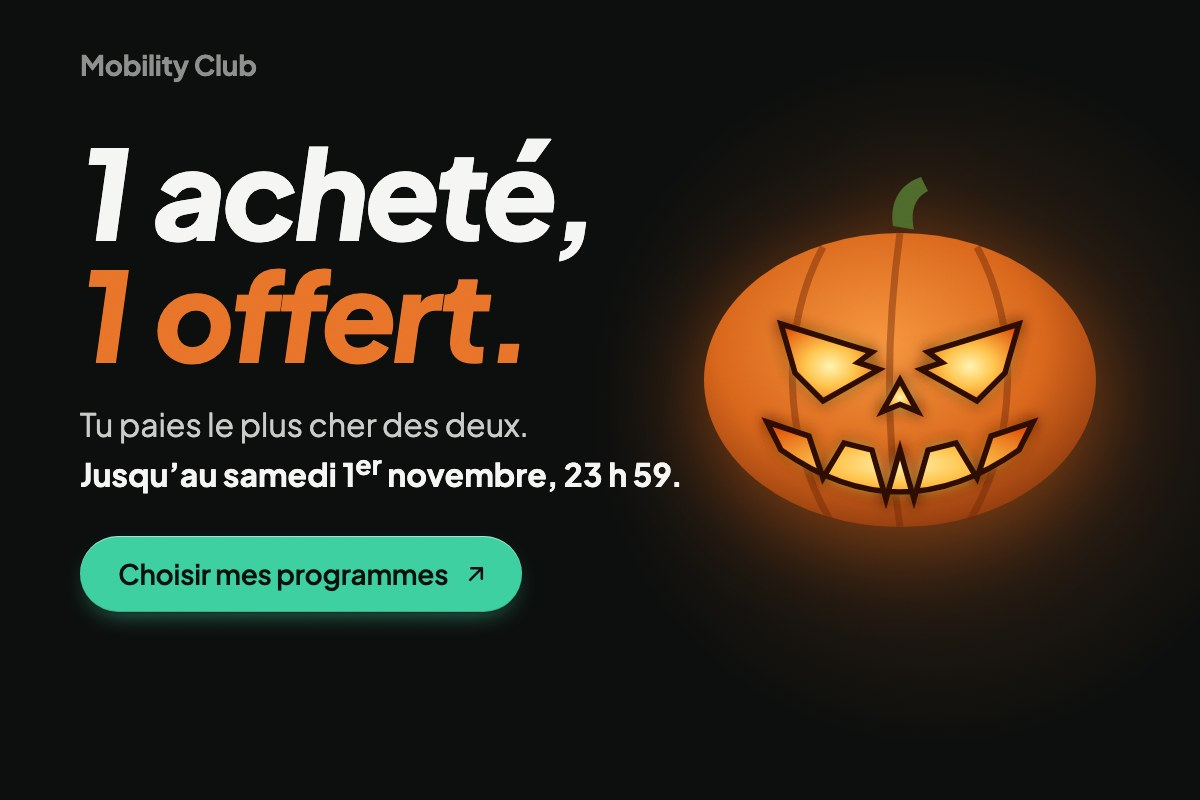
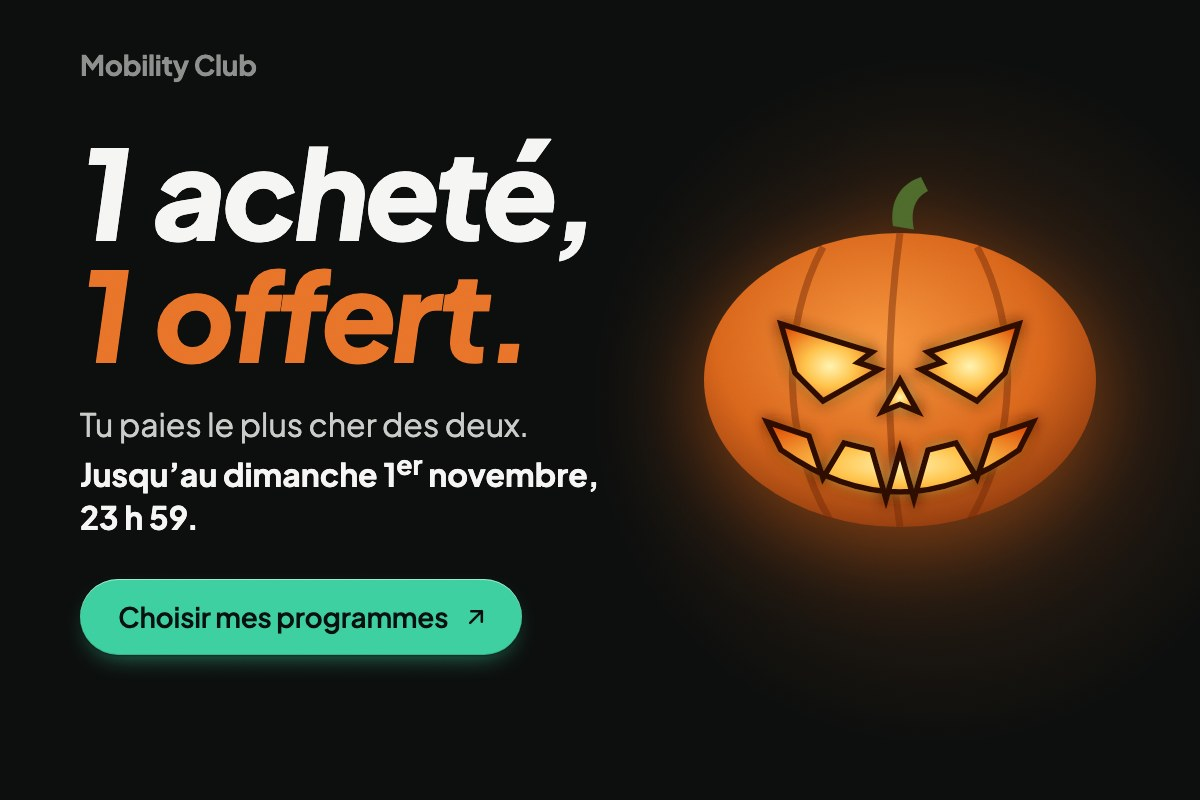
fix(halloween): fin de l'offre = dimanche 1er novembre 23 h 59 (page, démo, choisir, story 4, og, mail 1) — alignée sur le compte à rebours

Changed region(s): [[0.0617, 0.625, 0.4317, 0.8438], [0.185, 0.5625, 0.555, 0.625]]

diff --git a/halloween.html b/halloween.html
@@ -4,21 +4,21 @@
 <meta charset="UTF-8" />
 <meta name="viewport" content="width=device-width, initial-scale=1.0, viewport-fit=cover" />
 <title>Halloween — 1 programme acheté, 1 offert | Mobility Club</title>
-<meta name="description" content="Un programme ou un sort. Jusqu'au samedi 1er novembre minuit : pour un programme Articulation ou Warm Up acheté dans l'app, le deuxième est offert. Tu choisis les deux." />
+<meta name="description" content="Un programme ou un sort. Jusqu'au dimanche 1er novembre minuit : pour un programme Articulation ou Warm Up acheté dans l'app, le deuxième est offert. Tu choisis les deux." />
 <meta name="theme-color" content="#0D0F0E" />
 <meta name="robots" content="index,follow" />
 <link rel="canonical" href="https://mobilityclub.co/halloween" />
 <meta property="og:type" content="website" />
 <meta property="og:url" content="https://mobilityclub.co/halloween" />
 <meta property="og:title" content="Un programme ou un sort — 1 acheté, 1 offert" />
-<meta property="og:description" content="Halloween au Mobility Club : un programme Articulation ou Warm Up acheté, le deuxième offert. Jusqu'au samedi 1er novembre à minuit." />
+<meta property="og:description" content="Halloween au Mobility Club : un programme Articulation ou Warm Up acheté, le deuxième offert. Jusqu'au dimanche 1er novembre à minuit." />
 <meta property="og:image" content="https://mobilityclub.co/assets/halloween/og.jpg" />
 <meta property="og:image:width" content="1200" />
 <meta property="og:image:height" content="630" />
 <meta property="og:locale" content="fr_FR" />
 <meta name="twitter:card" content="summary_large_image" />
 <meta name="twitter:title" content="Un programme ou un sort — 1 acheté, 1 offert" />
-<meta name="twitter:description" content="Un programme Articulation ou Warm Up acheté, le deuxième offert. Jusqu'au samedi 1er novembre à minuit." />
+<meta name="twitter:description" content="Un programme Articulation ou Warm Up acheté, le deuxième offert. Jusqu'au dimanche 1er novembre à minuit." />
 <meta name="twitter:image" content="https://mobilityclub.co/assets/halloween/og.jpg" />
 <link rel="preload" as="image" href="/assets/halloween/colonne.jpg" fetchpriority="high" />
 <link rel="stylesheet" href="/assets/halloween/commun.css" />
@@ -202,10 +202,10 @@
     <img class="sharp" src="/assets/halloween/colonne.jpg" alt="" width="540" height="960" fetchpriority="high" />
   </div>
   <div class="hero-in">
-    <span class="capsule live"><span class="tag">Halloween</span>jusqu'à samedi minuit</span>
+    <span class="capsule live"><span class="tag">Halloween</span>jusqu'à dimanche minuit</span>
     <span class="capsule ended"><span class="tag">Halloween</span>offre terminée</span>
     <h1>Un programme <em>ou un sort.</em></h1>
-    <p class="lede">Deux programmes de mobilité construits sur ton bilan, pas une routine de plus. <span class="live">Le deuxième est offert jusqu'à samedi minuit.</span></p>
+    <p class="lede">Deux programmes de mobilité construits sur ton bilan, pas une routine de plus. <span class="live">Le deuxième est offert jusqu'à dimanche minuit.</span></p>
 
     <div class="fan" aria-label="Deux programmes dans la poche : un acheté, un offert">
       <div class="pocket-back"></div>
@@ -222,13 +222,13 @@
       <div class="tile"><span id="cd-m">00</span><small>min</small></div>
       <div class="tile"><span id="cd-s">00</span><small>s</small></div>
     </div>
-    <p class="until live">Tu paies le plus cher des deux. Fin samedi 1<sup>er</sup> novembre, 23 h 59 (Paris).</p>
+    <p class="until live">Tu paies le plus cher des deux. Fin dimanche 1<sup>er</sup> novembre, 23 h 59 (Paris).</p>
     <a class="cta live" href="/halloween/choisir" data-cta="hero">Choisir mes programmes</a>
     <p class="sub live">Paiement unique, pas d'abonnement. Ensuite, tu te connectes à l'app avec l'email de ton paiement.</p>
 
     <div class="ended glass ended-box" id="ended" role="status">
       <h2>L'offre est terminée.</h2>
-      <p>Le 1 acheté, 1 offert Halloween a pris fin samedi 1<sup>er</sup> novembre à 23 h 59. Les programmes restent disponibles à l'unité dans l'app, au tarif normal : Articulation 90 €, Warm Up 49 €.</p>
+      <p>Le 1 acheté, 1 offert Halloween a pris fin dimanche 1<sup>er</sup> novembre à 23 h 59. Les programmes restent disponibles à l'unité dans l'app, au tarif normal : Articulation 90 €, Warm Up 49 €.</p>
       <a class="cta" href="https://app.mobilityclub.co" data-cta="ended">Voir les programmes</a>
     </div>
   </div>
@@ -325,7 +325,7 @@
     <div class="faq">
       <details class="glass" open>
         <summary>Quand se termine l'offre ?</summary>
-        <p>Samedi 1<sup>er</sup> novembre 2026 à 23 h 59, heure de Paris. Le compte à rebours de cette page est calé sur cette heure. Après, le 1 acheté, 1 offert n'existe plus.</p>
+        <p>Dimanche 1<sup>er</sup> novembre 2026 à 23 h 59, heure de Paris. Le compte à rebours de cette page est calé sur cette heure. Après, le 1 acheté, 1 offert n'existe plus.</p>
       </details>
       <details class="glass">
         <summary>Comment marche le 1 acheté, 1 offert ?</summary>

diff --git a/scripts/visuels-halloween/email-1.html b/scripts/visuels-halloween/email-1.html
@@ -20,4 +20,4 @@ h1{font-size:124px;letter-spacing:-.035em;word-spacing:.07em;line-height:.98;}
 <body>
 <div class="st" style="width:1200px;height:800px"><div class="glow"></div><div class="marque">Mobility Club</div>
 <svg class="pk" style="width:420px" viewBox="0 0 120 104" aria-hidden="true" focusable="false"><defs><radialGradient id="emCorps" cx="45%" cy="38%" r="70%"><stop offset="0" stop-color="#F7963F"/><stop offset=".6" stop-color="#D9661C"/><stop offset="1" stop-color="#7E300C"/></radialGradient><radialGradient id="emFeu" cx="50%" cy="55%" r="65%"><stop offset="0" stop-color="#FFF3B0"/><stop offset=".4" stop-color="#FFC24A"/><stop offset="1" stop-color="#E0520A"/></radialGradient><filter id="emLueur" x="-40%" y="-40%" width="180%" height="180%"><feGaussianBlur stdDeviation="2" result="f"/><feMerge><feMergeNode in="f"/><feMergeNode in="SourceGraphic"/></feMerge></filter></defs><path d="M58 16 C57 9 60 4 66 2 L68 6 C64 8 63 12 64 17 Z" fill="#4E6B2C"/><ellipse cx="60" cy="60" rx="56" ry="42" fill="url(#emCorps)"/><g fill="none" stroke="#6E2808" stroke-opacity=".45" stroke-width="2"><path d="M38 22 C26 44 26 76 40 100"/><path d="M60 18 C56 46 56 76 60 102"/><path d="M82 22 C94 44 94 76 80 100"/></g><g class="jack-feu" fill="url(#emFeu)" stroke="#2E0E01" stroke-width="1.6" filter="url(#emLueur)"><path d="M26 44 L52 52 L48 55 L54 57 L38 66 L30 58 Z"/><path d="M94 44 L68 52 L72 55 L66 57 L82 66 L90 58 Z"/><path d="M60 60 L55 69 L60 67 L65 69 Z"/><path d="M22 72 L34 76 L38 88 L44 78 L52 80 L56 94 L60 80 L64 94 L68 80 L76 78 L82 88 L86 76 L98 72 L94 80 Q60 104 26 80 Z"/></g></svg>
-<div class="tx"><h1>1 acheté,<br><em>1 offert.</em></h1><p class="sub">Tu paies le plus cher des deux.<br><b>Jusqu’au samedi 1<sup>er</sup> novembre, 23 h 59.</b></p><span class="cta">Choisir mes programmes</span></div></div></body></html>
+<div class="tx"><h1>1 acheté,<br><em>1 offert.</em></h1><p class="sub">Tu paies le plus cher des deux.<br><b>Jusqu’au dimanche&nbsp;1<sup>er</sup>&nbsp;novembre, 23&nbsp;h&nbsp;59.</b></p><span class="cta">Choisir mes programmes</span></div></div></body></html>

diff --git a/scripts/visuels-halloween/story-4.html b/scripts/visuels-halloween/story-4.html
@@ -20,6 +20,6 @@ h1{margin-top:44px;font-size:112px;letter-spacing:-.035em;word-spacing:.07em;lin
 <svg class="pk" style="width:300px" viewBox="0 0 120 104" aria-hidden="true" focusable="false"><defs><radialGradient id="emCorps" cx="45%" cy="38%" r="70%"><stop offset="0" stop-color="#F7963F"/><stop offset=".6" stop-color="#D9661C"/><stop offset="1" stop-color="#7E300C"/></radialGradient><radialGradient id="emFeu" cx="50%" cy="55%" r="65%"><stop offset="0" stop-color="#FFF3B0"/><stop offset=".4" stop-color="#FFC24A"/><stop offset="1" stop-color="#E0520A"/></radialGradient><filter id="emLueur" x="-40%" y="-40%" width="180%" height="180%"><feGaussianBlur stdDeviation="2" result="f"/><feMerge><feMergeNode in="f"/><feMergeNode in="SourceGraphic"/></feMerge></filter></defs><path d="M58 16 C57 9 60 4 66 2 L68 6 C64 8 63 12 64 17 Z" fill="#4E6B2C"/><ellipse cx="60" cy="60" rx="56" ry="42" fill="url(#emCorps)"/><g fill="none" stroke="#6E2808" stroke-opacity=".45" stroke-width="2"><path d="M38 22 C26 44 26 76 40 100"/><path d="M60 18 C56 46 56 76 60 102"/><path d="M82 22 C94 44 94 76 80 100"/></g><g class="jack-feu" fill="url(#emFeu)" stroke="#2E0E01" stroke-width="1.6" filter="url(#emLueur)"><path d="M26 44 L52 52 L48 55 L54 57 L38 66 L30 58 Z"/><path d="M94 44 L68 52 L72 55 L66 57 L82 66 L90 58 Z"/><path d="M60 60 L55 69 L60 67 L65 69 Z"/><path d="M22 72 L34 76 L38 88 L44 78 L52 80 L56 94 L60 80 L64 94 L68 80 L76 78 L82 88 L86 76 L98 72 L94 80 Q60 104 26 80 Z"/></g></svg>
 <h1>Un programme<br><em>ou un sort.</em></h1>
 <div class="of">1 acheté, 1 offert.</div>
-<p class="sub">Jusqu’au samedi 1<sup>er</sup> novembre, 23 h 59.</p>
+<p class="sub">Jusqu’au dimanche&nbsp;1<sup>er</sup>&nbsp;novembre, 23&nbsp;h&nbsp;59.</p>
 <div class="hint"><span>Touche le lien</span><svg viewBox="0 0 24 24" fill="none" stroke-width="2.4" stroke-linecap="round" stroke-linejoin="round"><path d="M12 5v14M6 13l6 6 6-6"/></svg></div>
 <div class="marque">Mobility Club · mobilityclub.co/halloween</div></div></body></html>

diff --git a/scripts/visuels-halloween/og.html b/scripts/visuels-halloween/og.html
@@ -18,4 +18,4 @@ h1{font-size:92px;white-space:nowrap;letter-spacing:-.035em;word-spacing:.07em;l
 <body>
 <div class="st" style="width:1200px;height:630px"><div class="glow"></div><div class="marque">Mobility Club</div>
 <svg class="pk" style="width:400px" viewBox="0 0 120 104" aria-hidden="true" focusable="false"><defs><radialGradient id="emCorps" cx="45%" cy="38%" r="70%"><stop offset="0" stop-color="#F7963F"/><stop offset=".6" stop-color="#D9661C"/><stop offset="1" stop-color="#7E300C"/></radialGradient><radialGradient id="emFeu" cx="50%" cy="55%" r="65%"><stop offset="0" stop-color="#FFF3B0"/><stop offset=".4" stop-color="#FFC24A"/><stop offset="1" stop-color="#E0520A"/></radialGradient><filter id="emLueur" x="-40%" y="-40%" width="180%" height="180%"><feGaussianBlur stdDeviation="2" result="f"/><feMerge><feMergeNode in="f"/><feMergeNode in="SourceGraphic"/></feMerge></filter></defs><path d="M58 16 C57 9 60 4 66 2 L68 6 C64 8 63 12 64 17 Z" fill="#4E6B2C"/><ellipse cx="60" cy="60" rx="56" ry="42" fill="url(#emCorps)"/><g fill="none" stroke="#6E2808" stroke-opacity=".45" stroke-width="2"><path d="M38 22 C26 44 26 76 40 100"/><path d="M60 18 C56 46 56 76 60 102"/><path d="M82 22 C94 44 94 76 80 100"/></g><g class="jack-feu" fill="url(#emFeu)" stroke="#2E0E01" stroke-width="1.6" filter="url(#emLueur)"><path d="M26 44 L52 52 L48 55 L54 57 L38 66 L30 58 Z"/><path d="M94 44 L68 52 L72 55 L66 57 L82 66 L90 58 Z"/><path d="M60 60 L55 69 L60 67 L65 69 Z"/><path d="M22 72 L34 76 L38 88 L44 78 L52 80 L56 94 L60 80 L64 94 L68 80 L76 78 L82 88 L86 76 L98 72 L94 80 Q60 104 26 80 Z"/></g></svg>
-<div class="tx"><h1>Un programme<br><em>ou un sort.</em></h1><p class="sub"><b>1 acheté, 1 offert.</b><br>Jusqu’au samedi 1<sup>er</sup> novembre.</p></div></div></body></html>
+<div class="tx"><h1>Un programme<br><em>ou un sort.</em></h1><p class="sub"><b>1 acheté, 1 offert.</b><br>Jusqu’au dimanche 1<sup>er</sup> novembre.</p></div></div></body></html>

diff --git a/halloween-choisir.html b/halloween-choisir.html
@@ -4,7 +4,7 @@
 <meta charset="UTF-8" />
 <meta name="viewport" content="width=device-width, initial-scale=1.0, viewport-fit=cover" />
 <title>Tu choisis. 2 programmes, le moins cher est offert | Mobility Club</title>
-<meta name="description" content="Glisse deux programmes dans ta poche : tu paies le plus cher, l'autre est offert. Offre Halloween jusqu'au samedi 1er novembre minuit." />
+<meta name="description" content="Glisse deux programmes dans ta poche : tu paies le plus cher, l'autre est offert. Offre Halloween jusqu'au dimanche 1er novembre minuit." />
 <meta name="theme-color" content="#0D0F0E" />
 <meta name="robots" content="noindex,follow" />
 <link rel="canonical" href="https://mobilityclub.co/halloween/choisir" />
@@ -140,7 +140,7 @@ h1{font-size:clamp(40px,8vw,64px);letter-spacing:-.045em;margin:6px 0 4px;}
 </head>
 <body>
 <div class="wrap">
-  <div class="top"><a href="/halloween">← Retour</a><span style="color:var(--muted);font-size:13px">Halloween · jusqu'à samedi minuit</span></div>
+  <div class="top"><a href="/halloween">← Retour</a><span style="color:var(--muted);font-size:13px">Halloween · jusqu'à dimanche minuit</span></div>
   <h1>Tu choisis.</h1>
   <p class="lead">Glisse <b>deux programmes</b> dans ta poche. Tu paies le plus cher, le deuxième est <b>offert</b>.</p>
 

diff --git a/assets/halloween/demo.js b/assets/halloween/demo.js
@@ -184,7 +184,7 @@
     el.innerHTML = hdr(3, 'Programme') + '<div class="ob-motion ob-pbody"><div class="ob-pcard ' + (zn.img ? 'has-photo' : 'hd-body') + '">' +
       (zn.img ? '<img src="/assets/halloween/' + zn.img + '.jpg" alt="" decoding="async"' + (zn.pos ? ' style="object-position:' + zn.pos + '"' : '') + '>' : '<div class="hd-zoom" aria-hidden="true"><img src="/assets/app/v2/corps-repli.webp" alt="" draggable="false"></div><div class="hd-veil" aria-hidden="true"></div>') +
       '<span class="ob-ppill">12 sem.</span><p class="ob-plab">Ta zone la plus faible</p><h3 class="ob-ptitle">' + zn.n + '</h3><p class="ob-psub">3 à 5 séances / sem</p></div>' +
-      '<p class="ob-pmeta">12 semaines · 90 €</p><p class="ob-pwhy hd-orange">+ un 2<sup>e</sup> programme offert jusqu\'à samedi minuit</p></div>';
+      '<p class="ob-pmeta">12 semaines · 90 €</p><p class="ob-pwhy hd-orange">+ un 2<sup>e</sup> programme offert jusqu\'à dimanche minuit</p></div>';
   }
 
   function placeZoom() {

diff --git a/assets/halloween/compte-a-rebours.js b/assets/halloween/compte-a-rebours.js
@@ -1,4 +1,4 @@
-/* Compte à rebours Halloween. Fin fixe : samedi 1er novembre 2026, 23 h 59 Paris = 22:59:00Z.
+/* Compte à rebours Halloween. Fin fixe : dimanche 1er novembre 2026, 23 h 59 Paris = 22:59:00Z.
    Jamais de redémarrage : passé la fin, la page bascule en « offre terminée » et y reste. */
 (function () {
   'use strict';
